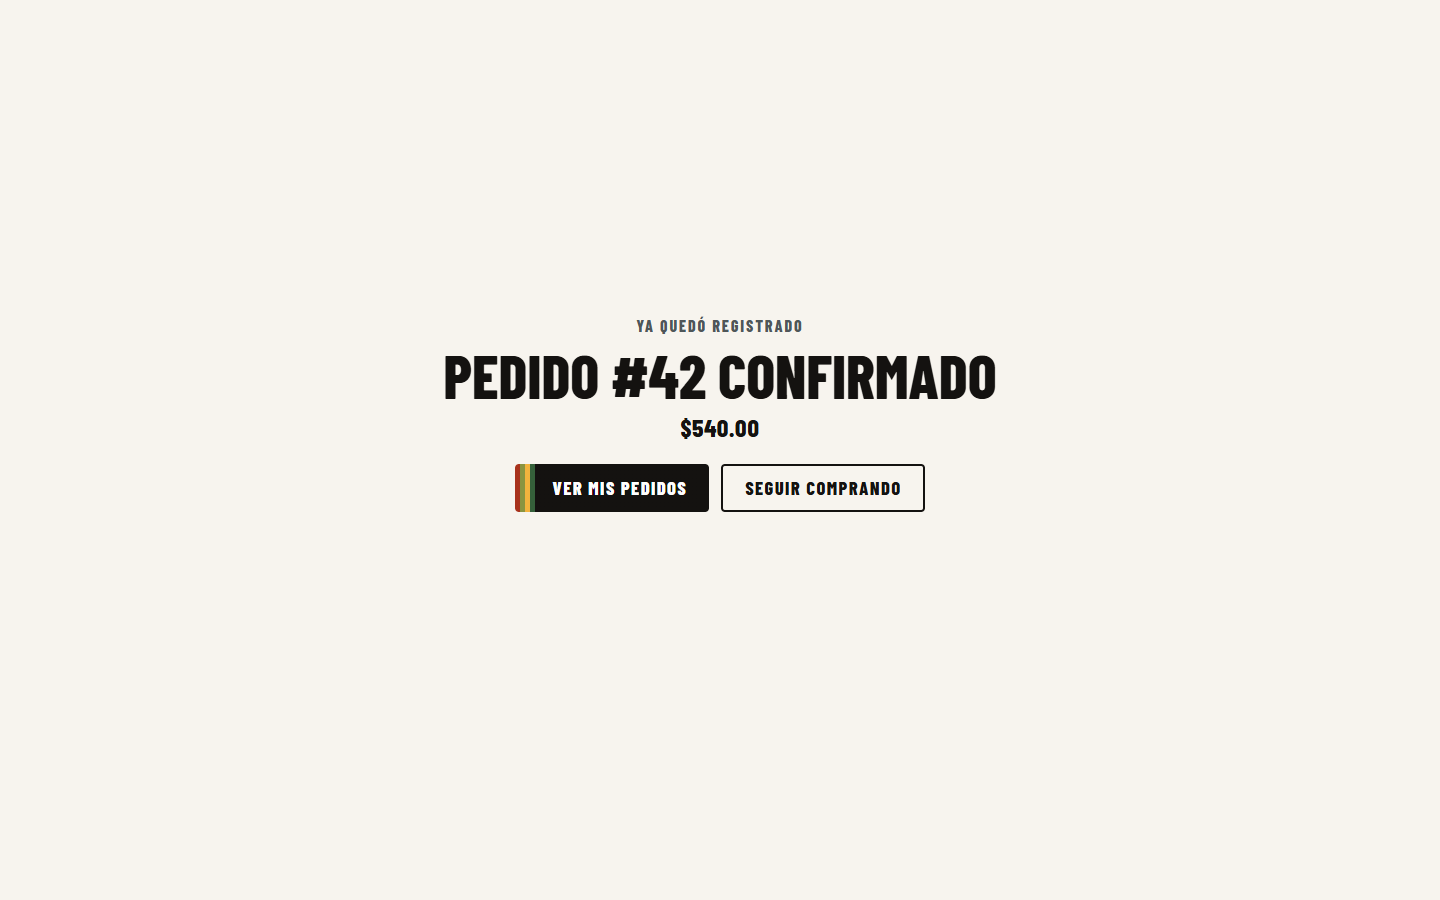
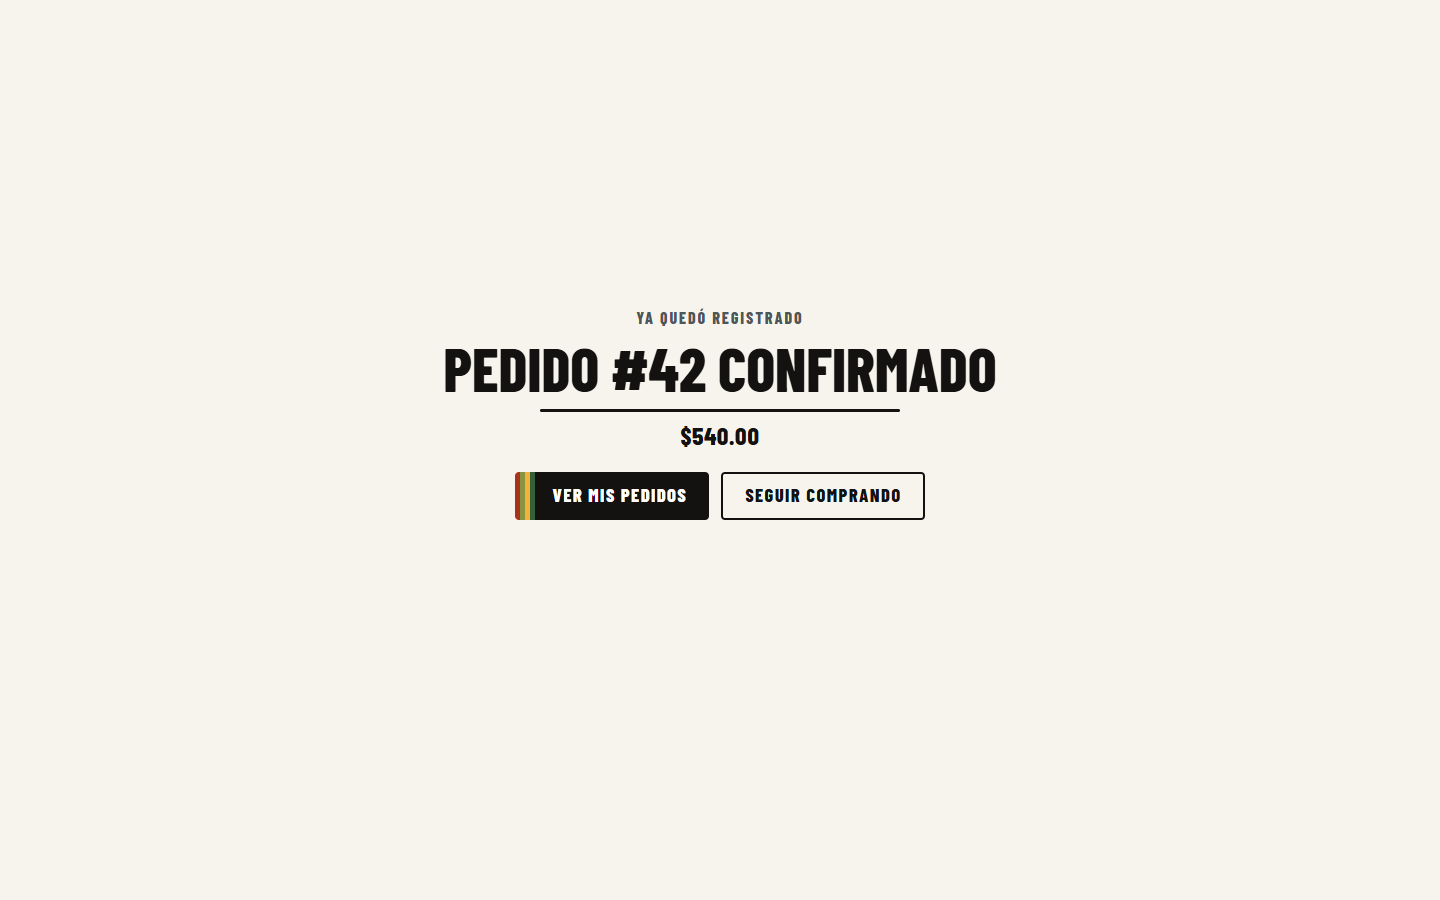
docs: la escena con avión: tira nueva (2 y 8 guisos, 390 y 1440), crítica y coreografía

Changed region(s): [[0.3125, 0.3422, 0.6875, 0.5911]]

diff --git a/docs/diseno/empacado.md b/docs/diseno/empacado.md
@@ -67,20 +67,21 @@ El compartimento se vacía (el guiso se desvanece y la etiqueta cae) y los que s
 El guiso que volaba se sacude y se desvanece (0.30 s); no se abre compartimento; sale el aviso con
 el mensaje (qué pasó y qué hacer), como hoy.
 
-### Confirmar el pedido (≈ 3.15 s, se salta con un toque, «Saltar» o Escape)
+### Confirmar el pedido (≈ 4.0 s con 2 guisos, ≈ 4.3 s con 8; se salta con un toque, «Saltar» o Escape)
 
 Rehecha el 18-nov-2026 (crítica y tiras de cuadros en `docs/calidad/critica-envio.md`). Una sola línea de
-tiempo, todo en SVG con el sistema (trazo negro de 2, acero, crema, la franja de cuatro colores):
+tiempo, todo en SVG con el sistema (trazo negro de 2, acero, crema, la franja de cuatro colores como librea del
+avión); al fondo, el sol de Cabo y dos nubes, y la pista.
 
-| Paso | Empieza | Qué se ve |
-|---|---|---|
-| Tus guisos | 0.00 s | La bolsa con un compartimento por guiso pedido (hasta 8), en su color, sobre la caja abierta |
-| Se sella | 0.40 s | Una banda negra corre por la boca de la bolsa |
-| Cae a la caja | 0.75 s | Toma impulso, cae por detrás del frente (no aparece ni desaparece nada) y la caja acusa el golpe |
-| Se cierra | 1.30 s | Las tapas giran sobre su bisagra, una y otra |
-| Cinta y etiqueta | 1.70 s | Pasa la cinta y se pega la etiqueta con la franja y el número del pedido |
-| Sale | 2.20 s | La caja retrocede y sale; tres rayas de velocidad |
-| El final | 2.80 s | «Pedido #N confirmado», el total, «Ver mis pedidos» (con el foco) y «Seguir comprando». Se queda hasta que se elige |
+| Paso | Qué se ve |
+|---|---|
+| Las bolsas | Una bolsita por guiso, con su color, cae a la caja abierta; de la cuarta en adelante, en ráfaga |
+| Se cierra | La caja acusa el golpe; las tapas giran sobre su bisagra |
+| Cinta y etiqueta | Pasa la cinta y se pega la etiqueta con la franja y el número del pedido |
+| Llega el avión | Rodando por la pista desde la izquierda; se pasa un poco y se asienta |
+| Sube a bordo | El avión levanta la nariz; la caja toma impulso y entra por debajo; la nariz se cierra |
+| Despega | Acelera (las marcas de la pista corren), levanta el morro y sale arriba a la derecha con su estela; el sol y las nubes se quedan atrás más despacio |
+| El final | La estela se vuelve la raya bajo «Pedido #N confirmado», con el total, «Ver mis pedidos» (con el foco) y «Seguir comprando». Se queda hasta que se elige |
 
 La llamada `POST /pedidos` sale al tocar «Confirmar pedido», en paralelo, como antes. Si la API rechaza (el
 409 de existencias de la demo), la escena se retira y sale el error. Si el número todavía no llega cuando se
